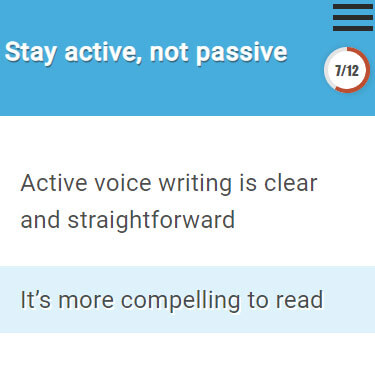
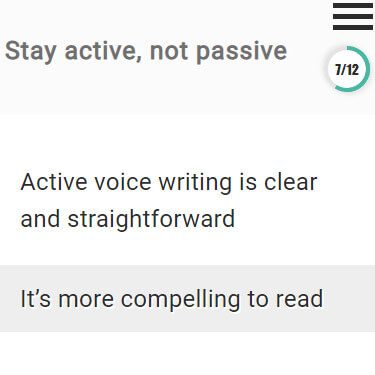
Add Simple Theme

diff --git a/src/scss/components/_card.scss b/src/scss/components/_card.scss
@@ -7,8 +7,8 @@
   --nav-link-active-color: #{$white};
   --nav-link-hover-color: #{$white};
   --menu-toggle-bg: #{$semi-gray};
-  --menu-progress-count-color: #{$semi-gray};
-  --menu-progress-count-bg: #{$dark-gray};
+  --progress-count-color: #{$semi-gray};
+  --progress-count-bg: #{$dark-gray};
   --card-hint: #{lighten($semi-gray, 5%)};
   --card-header-bg: #{lighten($dark-gray, 5%)};
   --card-body-before-bg: #{lighten($dark-gray, 5%)};
@@ -21,8 +21,21 @@
   }
 }
 
+.simple-theme {
+  --title-color: #{$green};
+  --progress-border-color: #{lighten($green, 5%)};
+  --card-hint: #{lighten($green, 5%)};
+  --card-header-color: #{darken($semi-gray, 30%)};
+  --card-header-bg: #{lighten($semi-gray, 25%)};
+  --card-body-before-bg: #{lighten($semi-gray, 25%)};
+  --card-body-li-stripe-shadow: #{$white};
+  --card-body-li-stripe-bg: #{lighten($semi-gray, 20%)};
 
-// TODO: remove from mane files
+  .card-header h2 {
+    text-shadow: .2rem .2rem $white;
+  }
+}
+
 .content {
   background-color: var(--content-bg, $white);
 }
@@ -59,8 +72,13 @@ nav {
 
 .progress {
   &__count {
-    color: var(--menu-progress-count-color, $dark-gray);
-    background-color: var(--menu-progress-count-bg, $white);
+    color: var(--progress-count-color, $dark-gray);
+    background-color: var(--progress-count-bg, $white);
+  }
+
+  &__curve-first-half,
+  &__curve-second-half {
+    border: .4rem solid var(--progress-border-color, $mojo);
   }
 }
 
@@ -103,7 +121,7 @@ nav {
     @include text-shadow;
     width: calc(100% - 5rem);
     margin: 0;
-    color: $white;
+    color: var(--card-header-color, $white);
     line-height: 1;
     text-align: left;
     letter-spacing: .1rem;

diff --git a/src/scss/components/_progress-bar.scss b/src/scss/components/_progress-bar.scss
@@ -1,5 +1,4 @@
 $default-size: 4.6rem;
-$border-color: $mojo;
 
 .progress {
   @include progress($default-size);
@@ -28,7 +27,6 @@ $border-color: $mojo;
   &__curve-first-half {
     @include size(100%);
     position: absolute;
-    border: .4rem solid $border-color;
     border-radius: $br;
     clip: rect(0, #{$default-size/2}, $default-size, 0);
   }
@@ -36,7 +34,6 @@ $border-color: $mojo;
   &__curve-second-half {
     @include size(100%);
     position: absolute;
-    border: .4rem solid $border-color;
     border-radius: $br;
     clip: rect(0, #{$default-size/2}, $default-size, 0);
   }

diff --git a/src/components/pages/theme/Theme.tsx b/src/components/pages/theme/Theme.tsx
@@ -25,8 +25,8 @@ const Theme: FunctionComponent = () => {
     <>
       <h1>Select speech theme</h1>
       <p>
-        Please choose a theme for displaying the speech/interview that is
-        convenient for you.
+        Please choose a theme of the&nbsp;speech/interview that is convenient
+        for you.
       </p>
       <div className="theme-row">
         {THEME_ITEMS.map(theme => {

diff --git a/src/constants/index.ts b/src/constants/index.ts
@@ -4,5 +4,4 @@ export const THEMES = {
   DEFAULT: 'default',
   DARK: 'dark',
   SIMPLE: 'simple',
-  ALTERNATIVE: 'alternative',
 };
